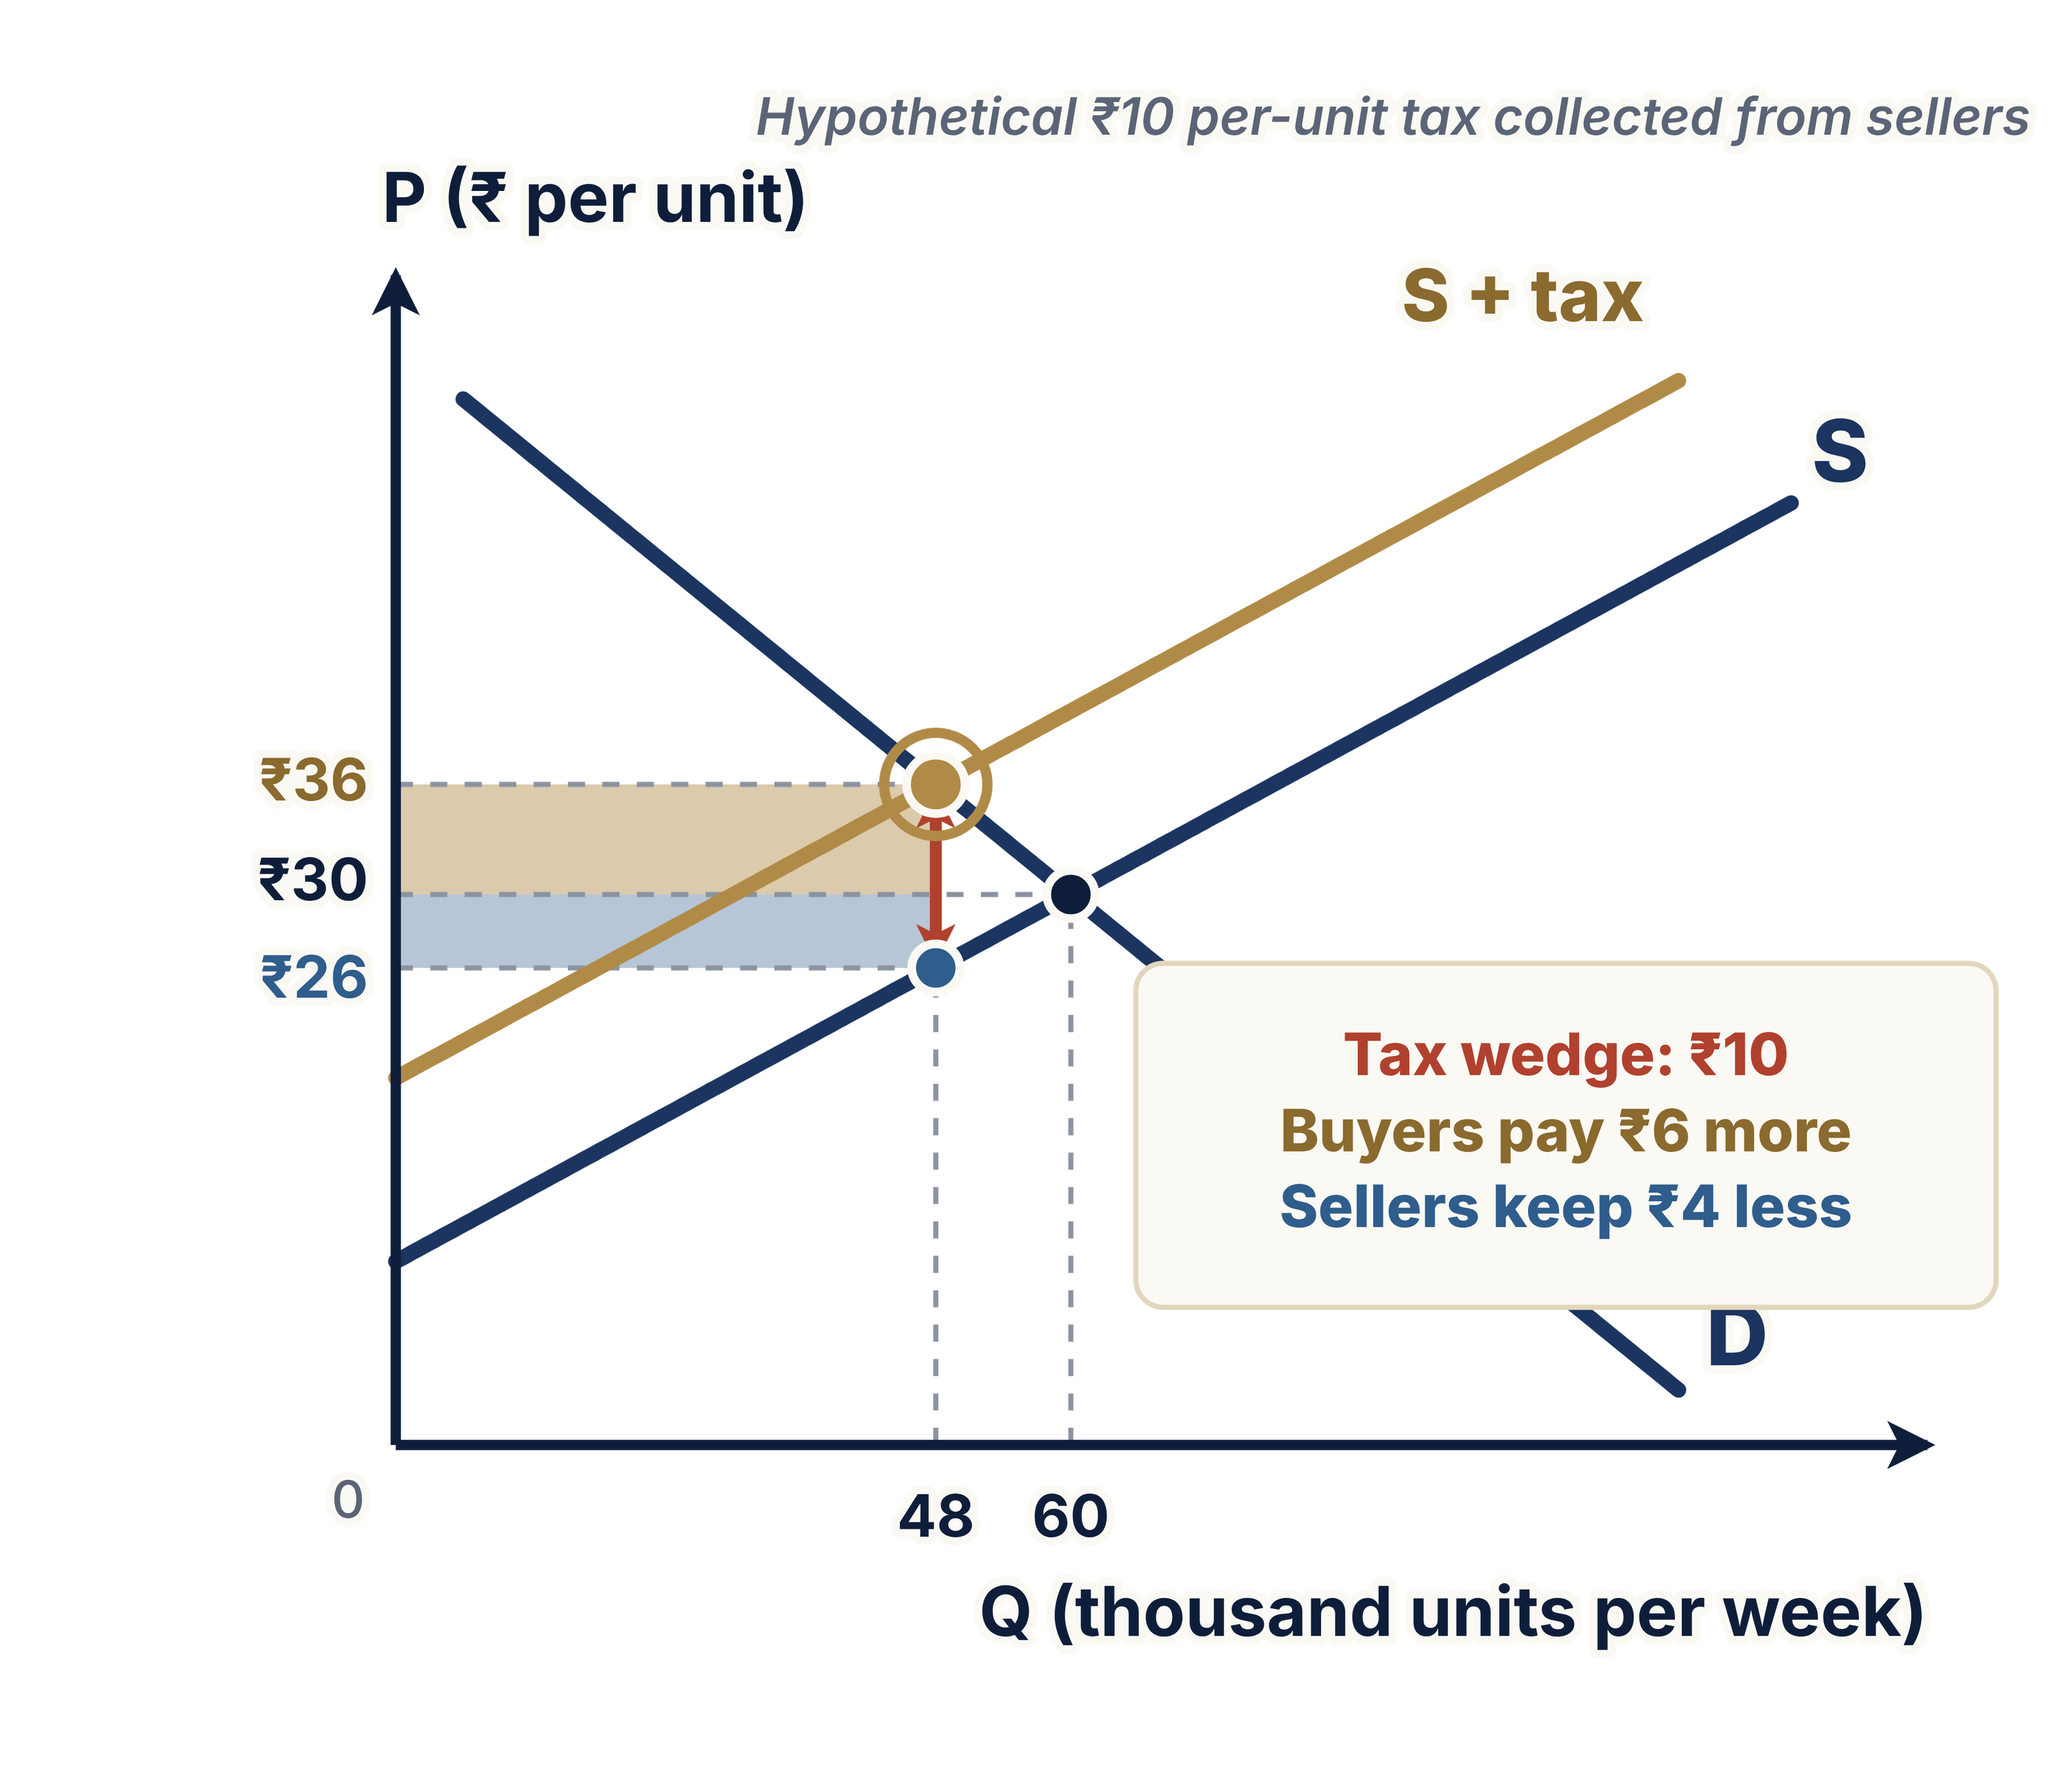
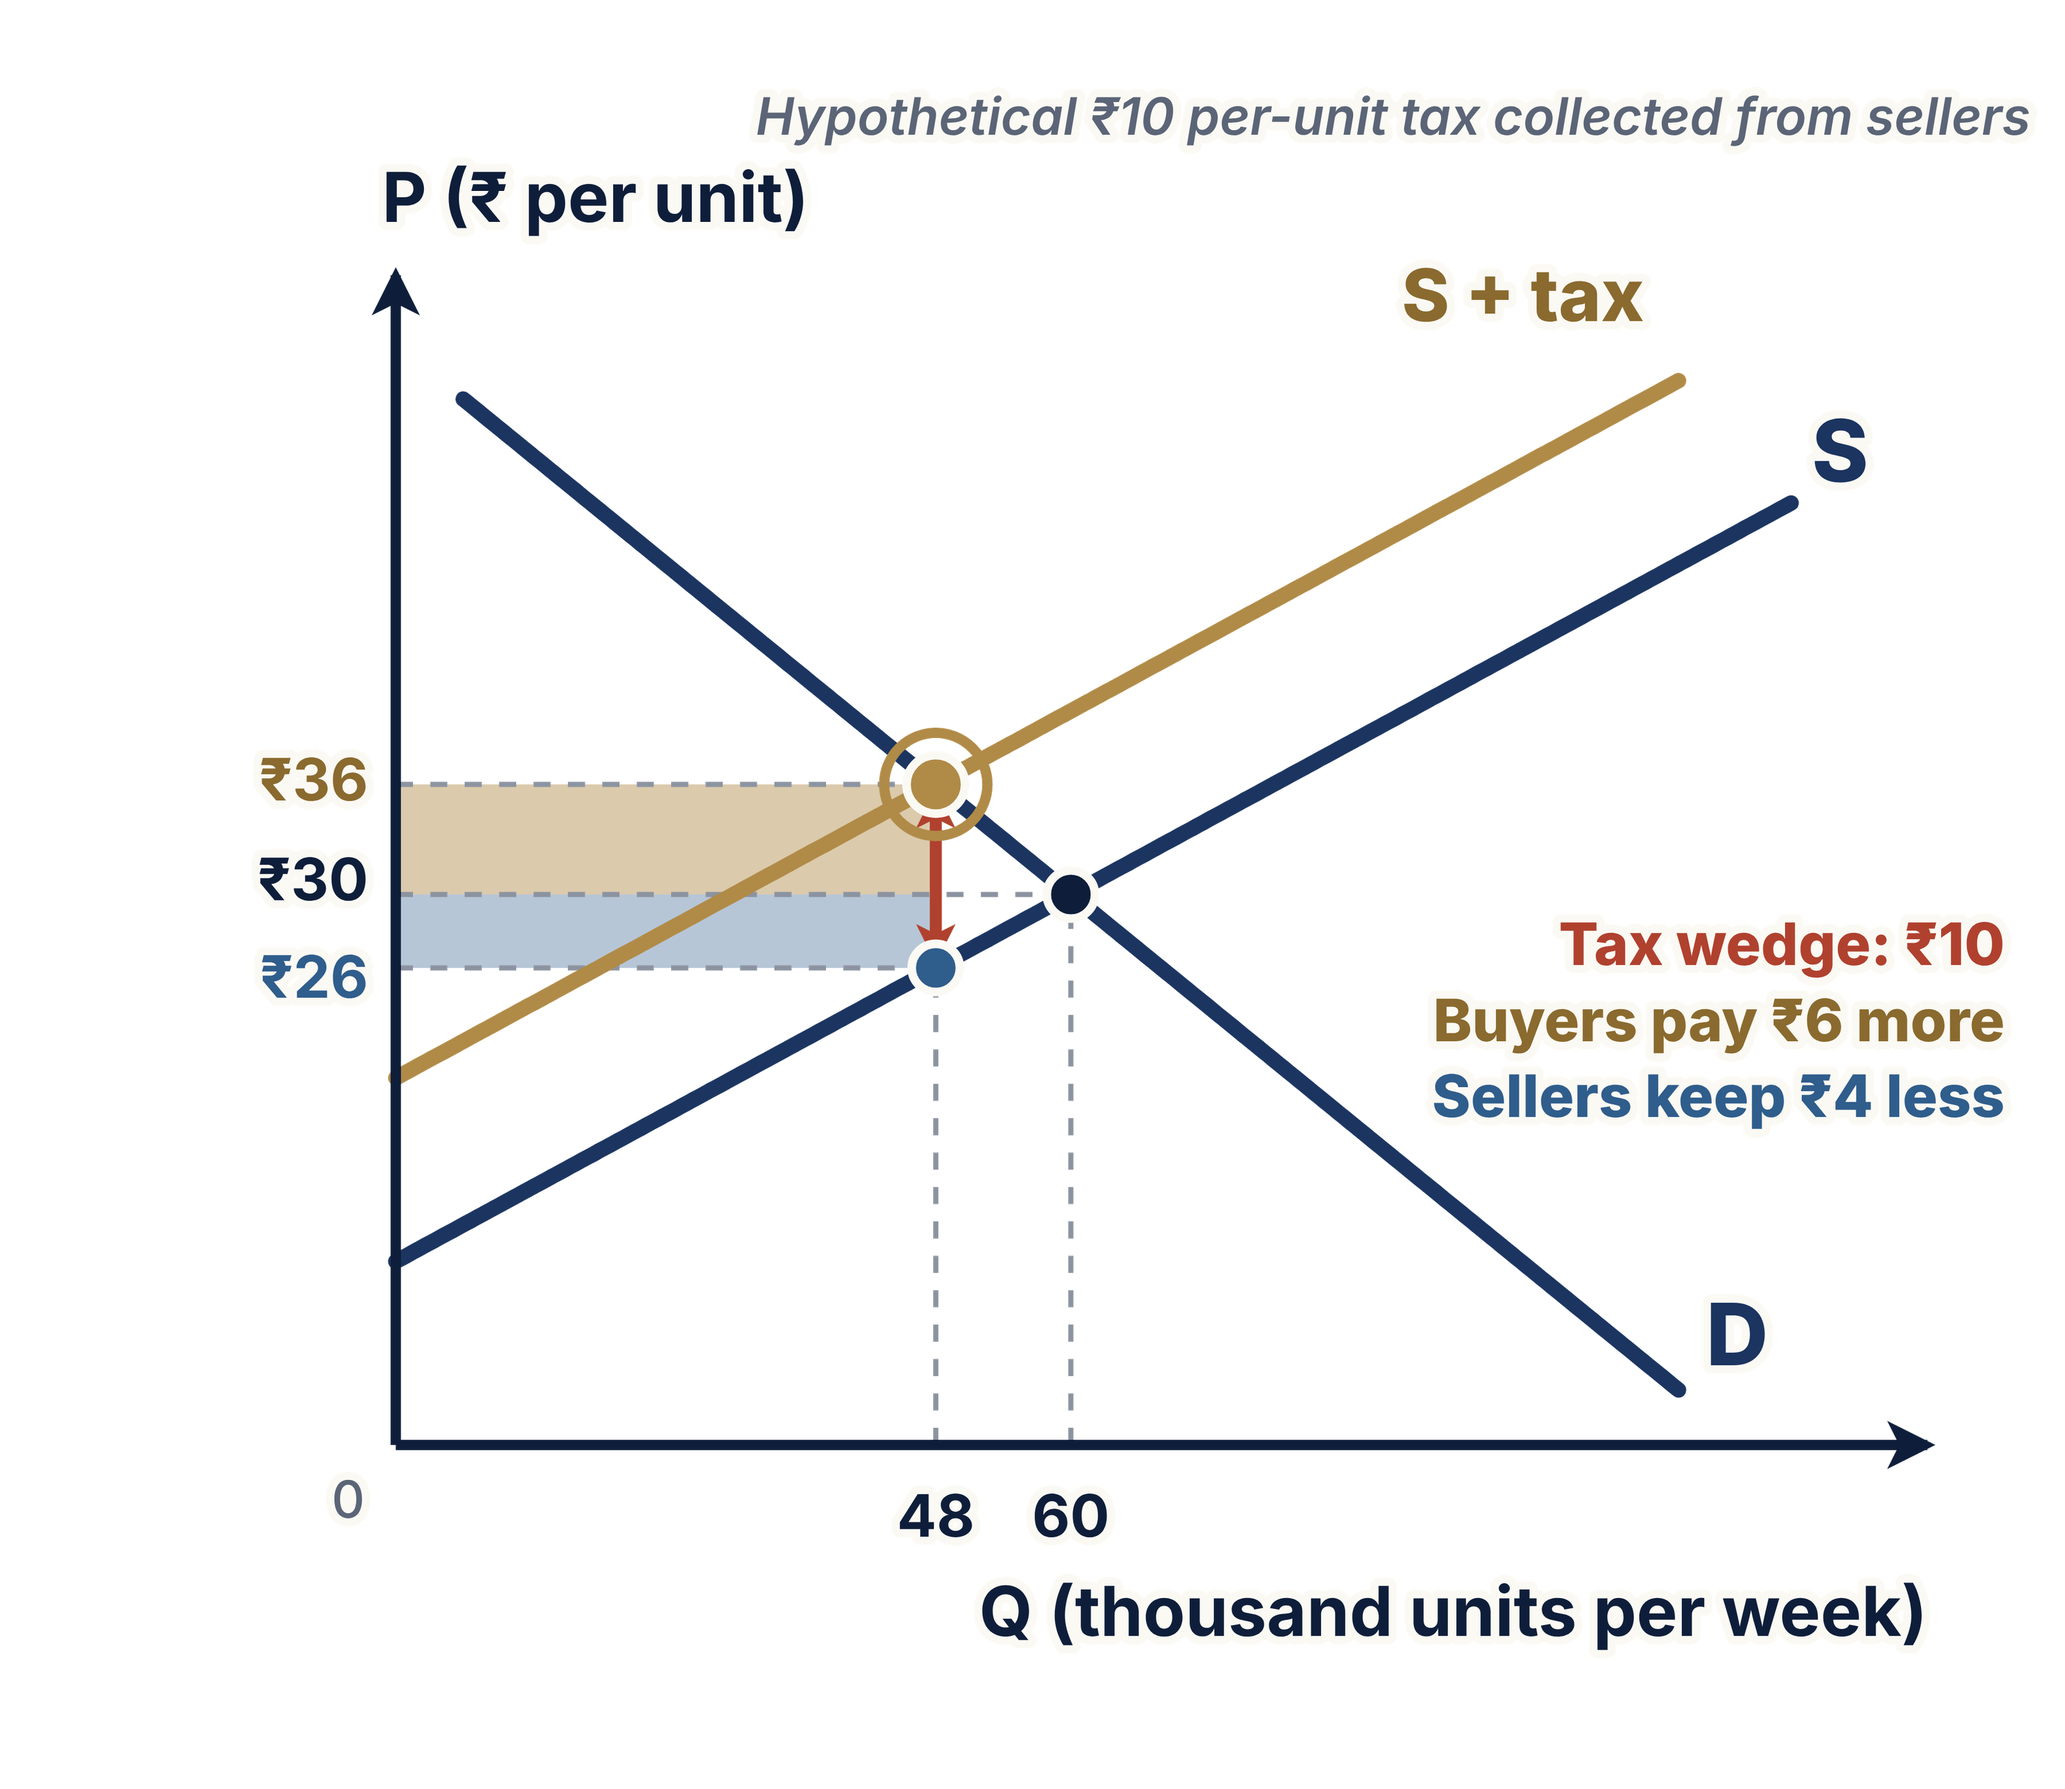
Section II: clear callouts from tax and subsidy curves
Claude-Session: https://claude.ai/code/session_01RLiD2gmov7MXXhnmF6Br24

Changed region(s): [[0.5625, 0.4962, 0.9688, 0.7443]]

diff --git a/presentation-assets/upsc-economics-elasticity-intervention-market-failure/source/s2_graphs.py b/presentation-assets/upsc-economics-elasticity-intervention-market-failure/source/s2_graphs.py
@@ -272,8 +272,7 @@ lab(ax, 114, D(114), "D", NAVY, dx=16, dy=-28)
 lab(ax, 124, S(124), "S", NAVY, dx=12, dy=-26)
 lab(ax, 114, St(114), "S + tax", GOLD_TXT, dx=-20, dy=-46, anchor="end", size=42)
 axes(ax)
-cv.rect(660, 560, 500, 200, fill="#FBF9F3", stroke=EDGE, sw=3, rx=16)
-cv.lines(910, 660, [("Tax wedge: ₹10", dict(color=RED)), ("Buyers pay ₹6 more", dict(color=GOLD_TXT)), ("Sellers keep ₹4 less", dict(color=BLUE))], size=34, weight=850)
+cv.lines(1165, 596, [("Tax wedge: ₹10", dict(color=RED)), ("Buyers pay ₹6 more", dict(color=GOLD_TXT)), ("Sellers keep ₹4 less", dict(color=BLUE))], size=34, weight=850, anchor="end")
 tag(cv, 1180, 70, "Hypothetical ₹10 per-unit tax collected from sellers")
 cv.save("G18_Tax_Wedge")
 
@@ -326,15 +325,16 @@ ax = market_ax(cv, 230, 840, 1080, 200)
 box(ax, 0, 27, 66, 32, GREEN, 0.30)
 hg(ax, 32, 66, "₹32", color=BLUE, ldy=-16); hg(ax, 30, 60, "₹30", size=30, ldy=4); hg(ax, 27, 66, "₹27", color=GOLD_TXT, ldy=20)
 vg(ax, 60, 30); vg(ax, 66, 27, "66")
-ax.poly(D, 6, 114, NAVY, CW); ax.poly(S, 0, 124, NAVY, CW); ax.poly(Ssub, 0, 124, GOLD, CW)
+ax.poly(D, 6, 114, NAVY, CW); ax.poly(S, 0, 100, NAVY, CW); ax.poly(Ssub, 0, 100, GOLD, CW)
 dot(ax, 60, 30, INK, 14); dot(ax, 66, 27, GOLD, 17, ring=True); dot(ax, 66, 32, BLUE, 14)
 lab(ax, 114, D(114), "D", NAVY, dx=16, dy=-28)
-lab(ax, 124, S(124), "S", NAVY, dx=12, dy=-26)
-lab(ax, 124, Ssub(124), "S_{2}", GOLD_TXT, dx=12, dy=16, size=46)
+lab(ax, 100, S(100), "S", NAVY, dx=14, dy=-24)
+lab(ax, 100, Ssub(100), "S_{2}", GOLD_TXT, dx=14, dy=18, size=46)
 axes(ax)
-cv.rect(600, 220, 560, 250, fill="#FBF9F3", stroke=EDGE, sw=3, rx=16)
-cv.lines(880, 345, [("S_{2} = S shifted down by ₹5", dict(color=GOLD_TXT, weight=750)), ("Buyers pay ₹27 (₹3 less)", dict(color=GOLD_TXT)), ("Sellers receive ₹32 (₹2 more)", dict(color=BLUE)),
-                    ("Fiscal cost: ₹5 × 66 = ₹330", dict(color=GREEN))], size=32, weight=850)
+assert abs(5 * 66000 - 330000) < 1e-9
+cv.rect(615, 104, 560, 236, fill="#FBF9F3", stroke=EDGE, sw=3, rx=16)
+cv.lines(895, 222, [("S_{2} = S shifted down by ₹5", dict(color=GOLD_TXT, weight=750)), ("Buyers pay ₹27 (₹3 less)", dict(color=GOLD_TXT)), ("Sellers receive ₹32 (₹2 more)", dict(color=BLUE)),
+                    ("Fiscal cost a week:", dict(color=GREEN)), ("₹5 × 66,000 = ₹3.3 lakh", dict(color=GREEN))], size=30, weight=850)
 tag(cv, 1180, 70, "Hypothetical ₹5 per-unit subsidy paid to producers")
 cv.save("G20_Subsidy")
 
